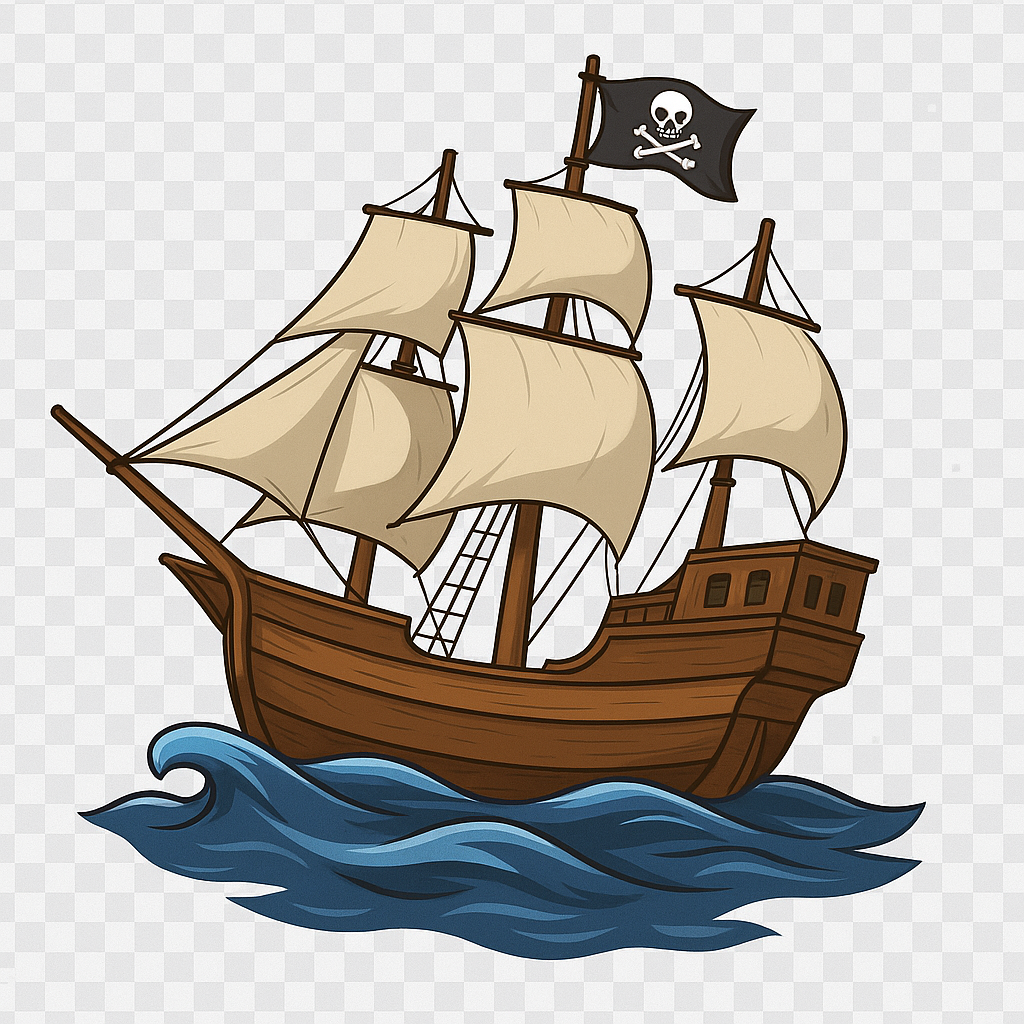
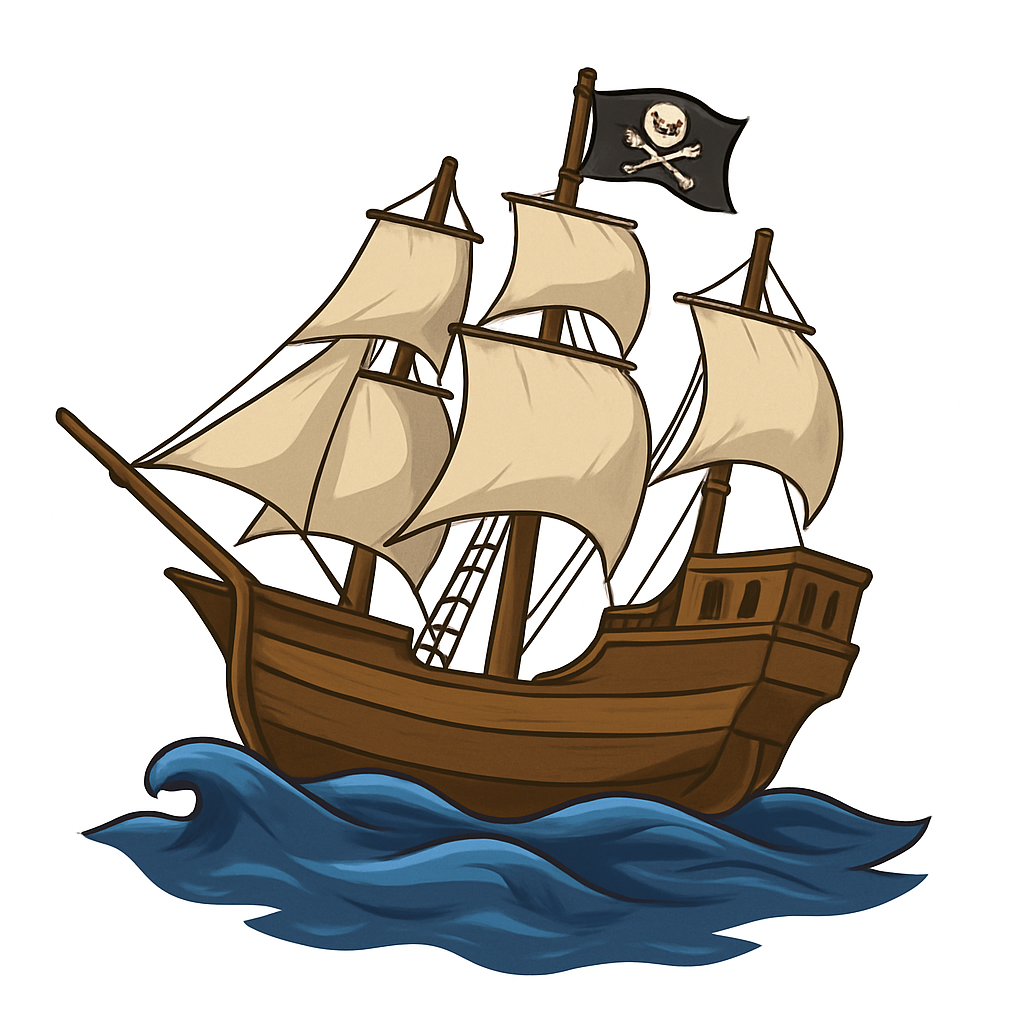
ship image refined

diff --git a/src/app/styles/NightScene.module.css b/src/app/styles/NightScene.module.css
@@ -195,19 +195,16 @@
   left: 50%;
   transform: translateX(-50%);
   animation: shipMovement 20s ease-in-out infinite, float 4s ease-in-out infinite;
-  display: flex;
-  align-items: center;
-  justify-content: center;
+  display: block;
+  overflow: hidden;
 }
 
 .shipImage {
   width: 100%;
-  height: auto;
-  object-fit: contain;
-  filter: brightness(0.9) contrast(1.1);
+  height: 100%;
+  object-fit: cover;
+  filter: brightness(0.95) contrast(1.05);
   display: block;
-  max-width: 100%;
-  transform: scale(0.8);
 }
 
 .flag {

diff --git a/src/app/page.tsx b/src/app/page.tsx
@@ -69,10 +69,10 @@ export default function Home() {
           src="/images/pirate-ship.png"
           alt="Pirate Ship"
           className={styles.shipImage}
-          width={512}
-          height={512}
+          width={400}
+          height={400}
           priority
-          style={{ objectFit: 'contain' }}
+          style={{ objectFit: 'cover' }}
         />
       </div>
     </main>
